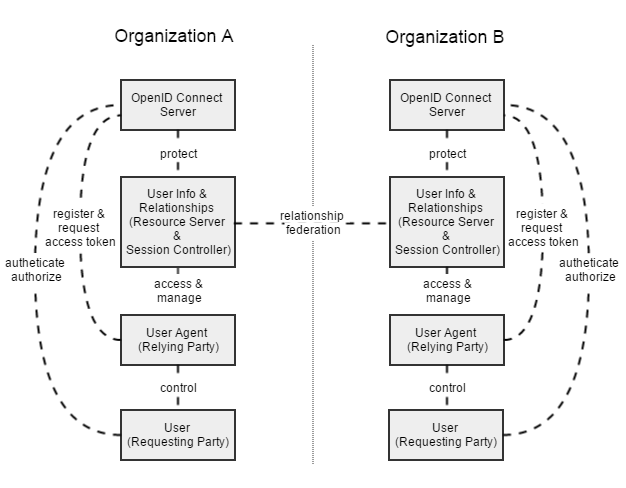
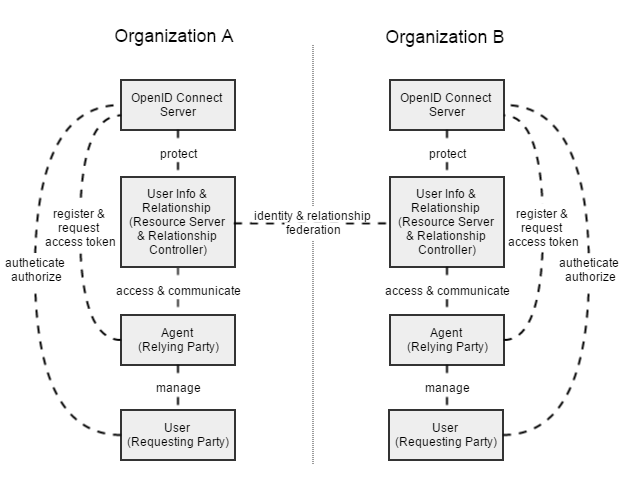
Update Model

diff --git a/ibn.html b/ibn.html
@@ -105,6 +105,14 @@
 						</p>
 						
 						<p>
+							An Agent, can be for example User Agent, Internet of Things Agent or File Transfer Agent.
+						</p>
+						
+						<p>
+							A Relationship Controller controls relationships between users, agents and between users and agents.
+						</p>
+						
+						<p>
 							This architecture does not add an extra layer to the network stack, it is a pure combination of existing systems and technologies and thus the overhead added by IBN architecture to the existing network infrastructure is negligible.
 						</p>
 												
